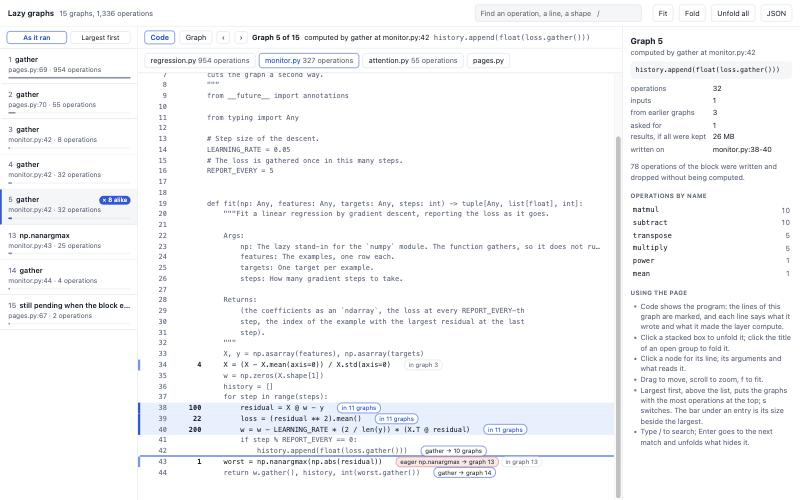
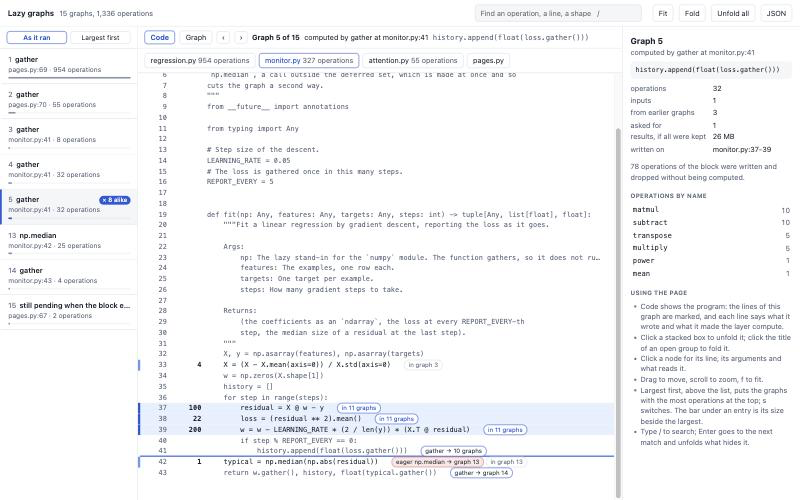
Lazy graph page: two screenshots and the example's line numbers follow the example
The monitoring example ends with np.median since np.nanargmax was
deferred, and is a line shorter. The screenshots of its code and of one
of its graphs showed the earlier program, and the page's design named
the earlier lines.

diff --git a/docs/lazy-graph-page-design.md b/docs/lazy-graph-page-design.md
@@ -40,8 +40,8 @@ Graph 5 of a loop that gathers its loss every fifth step is selected in the list
 
 - **One tab per file** that wrote an operation or made the layer compute, the file with the most operations first. Selecting a graph brings up the file that holds most of it.
 - **`Code` and `Graph` switch the middle** between the listing and the drawing of the selected graph. The list of graphs and the panel stay.
-- **The panel says which lines a graph was written on:** `monitor.py:38-40`.
-- **From a node of the drawing, `Show monitor.py:40 in the code`** goes back to the listing at that line.
+- **The panel says which lines a graph was written on:** `monitor.py:37-39`.
+- **From a node of the drawing, `Show monitor.py:39 in the code`** goes back to the listing at that line.
 - **How much code is there is the recording's choice:** whole files, only the lines that did something, with gaps between them, or line numbers alone ([lazy-recording-design.md](lazy-recording-design.md#how-much-code-a-page-carries)).
 
 The listing is also the log in another form: the `eager`, `write` and `needed` marks are what the layer's loggers say ([lazy-design.md](lazy-design.md#what-the-layer-says)), put on the lines they are about.
@@ -83,7 +83,7 @@ What is drawn:
 | Click `Code` or `Graph` | The middle shows the program's lines, or the drawing of the selected graph |
 | Click a graph in the list while the code is shown | Its lines are marked, and the file that holds most of them comes up |
 | Click a mark on a line: `in graph 3`, `gather → 10 graphs`, `eager np.median → graph 13` | The drawing of that graph, with the first operation of that line selected and whatever hid it unfolded |
-| Select a node and click `Show monitor.py:40 in the code` | The listing, at that line |
+| Select a node and click `Show monitor.py:39 in the code` | The listing, at that line |
 | Click a folded group | It unfolds one level, and stays where it was on the screen |
 | Click the title of an open group | It folds |
 | Click a node | It is selected. The panel shows its type, shape, size, state, line and the text of the line, its arguments as written and what reads it. On the drawing, everything it depends on and everything that depends on it stays lit and the rest is dimmed |
